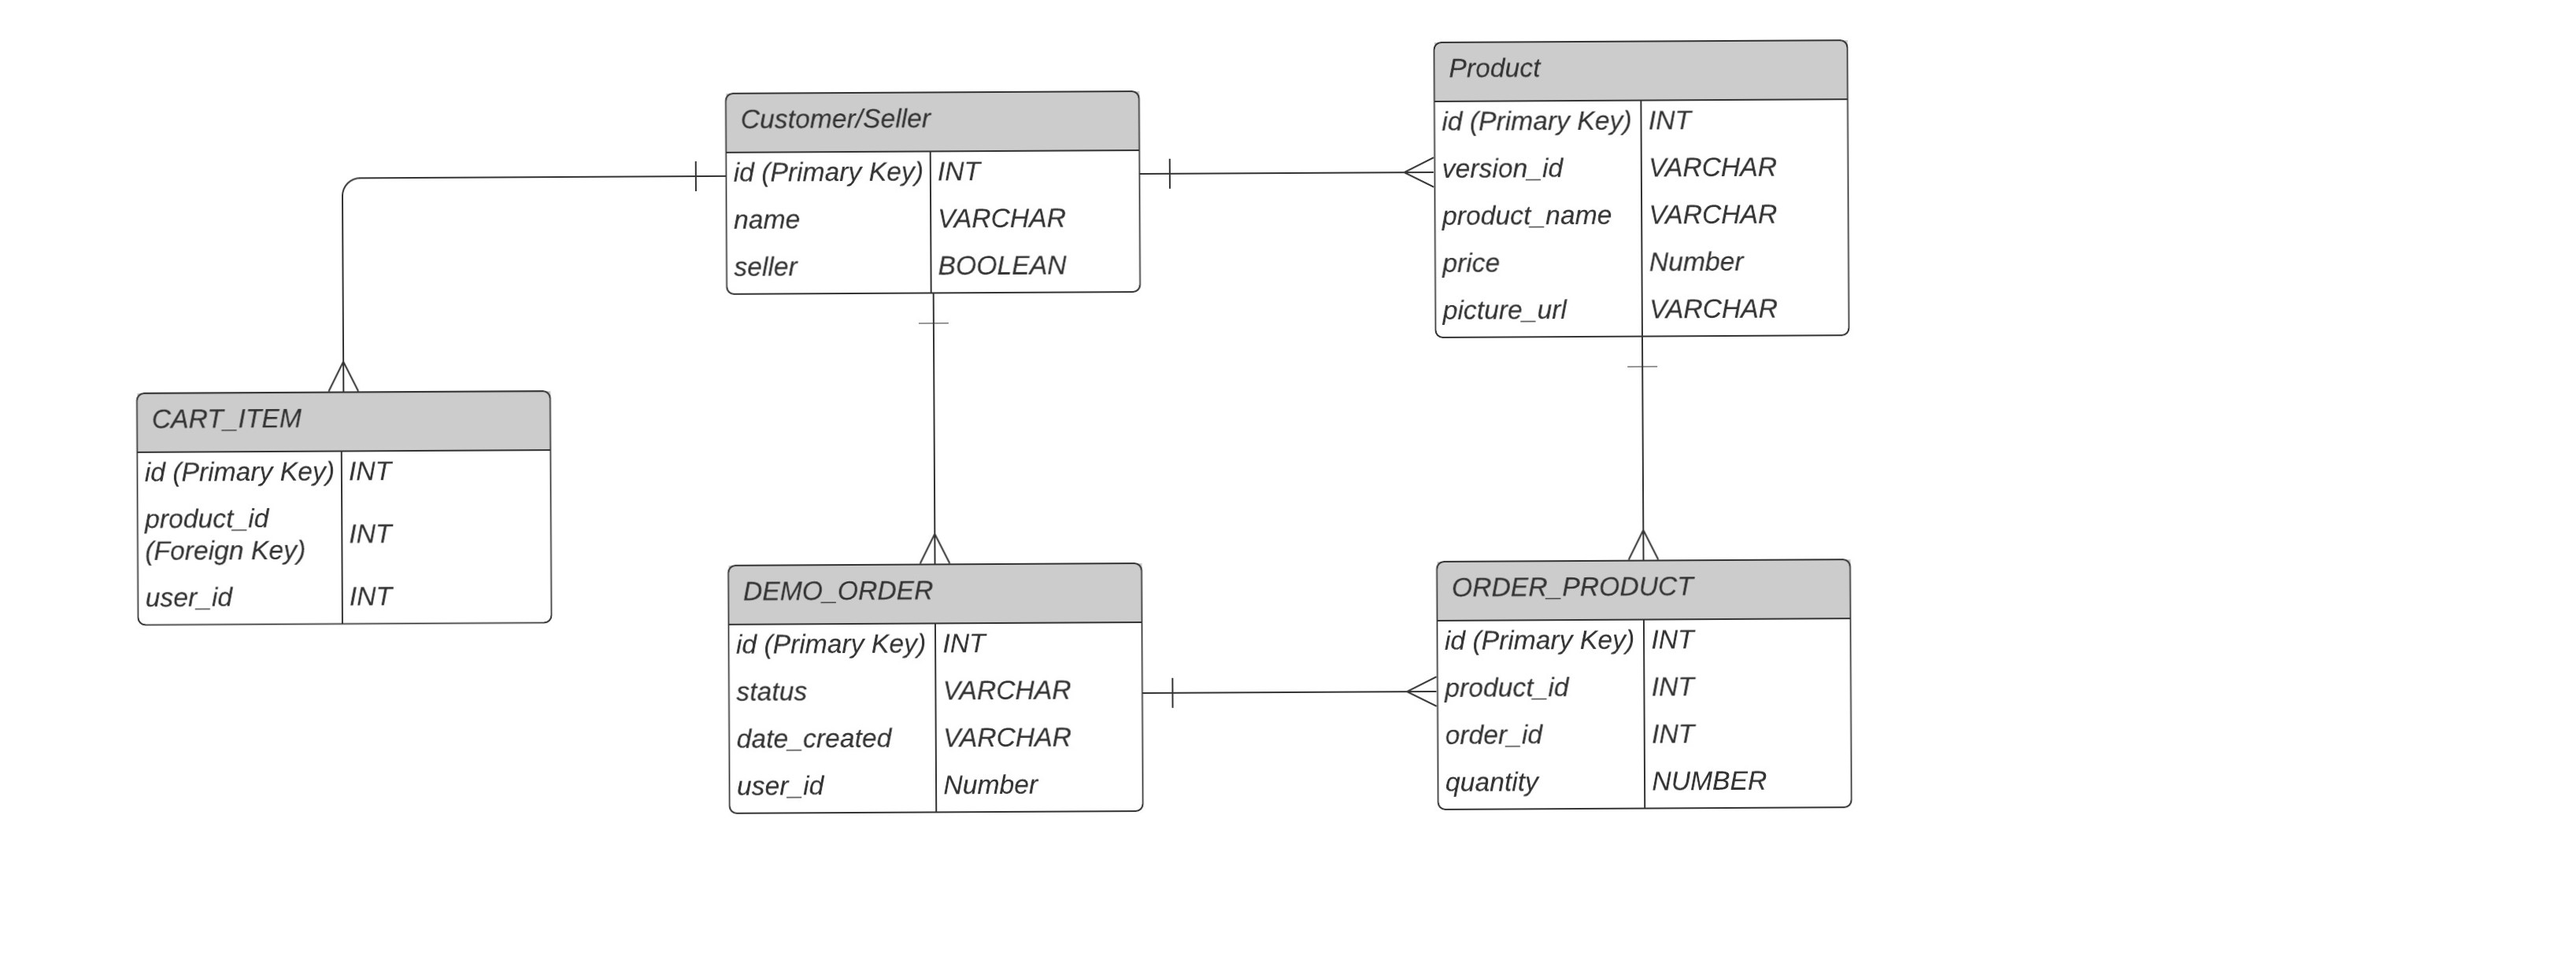
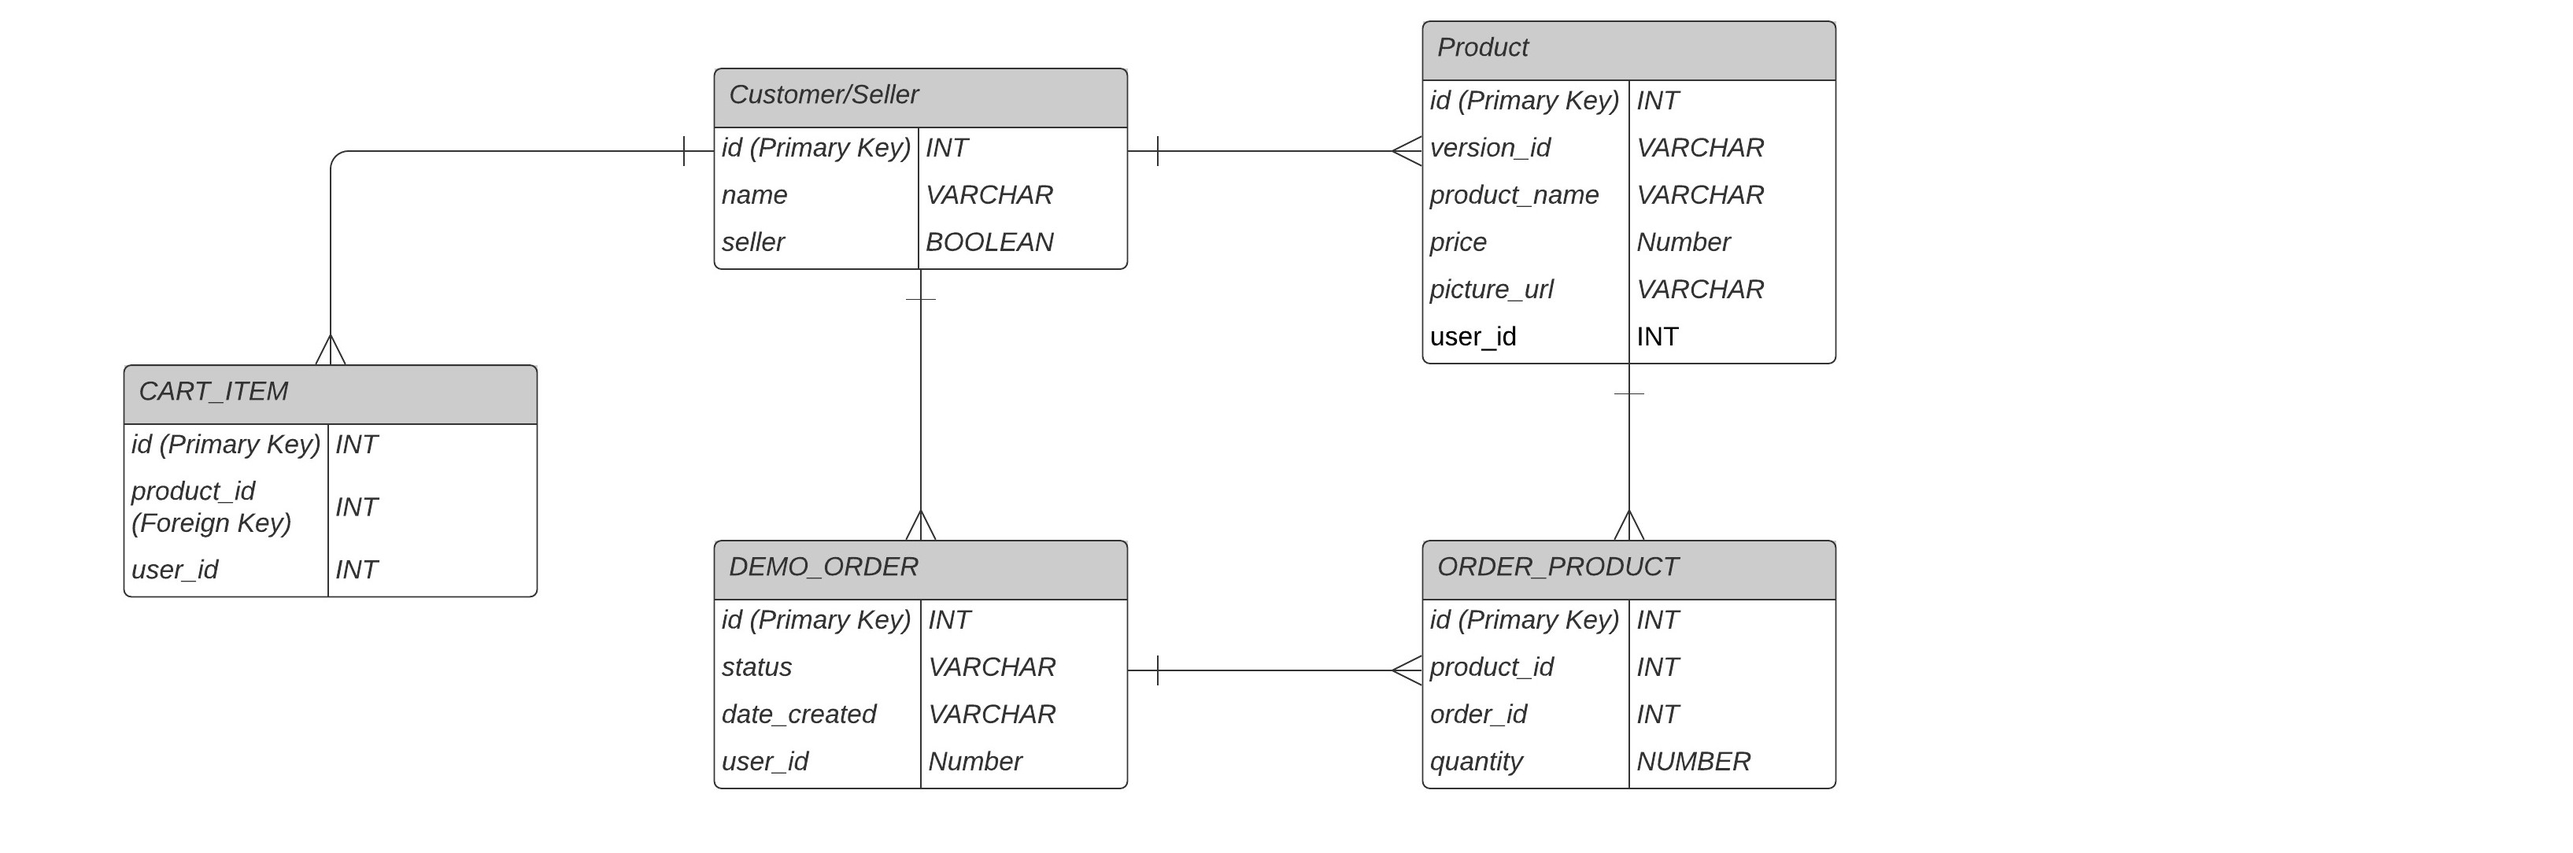
Code refinements

diff --git a/src/main/java/com/sample/demo/controller/ProductController.java b/src/main/java/com/sample/demo/controller/ProductController.java
@@ -14,6 +14,7 @@ import org.springframework.web.bind.annotation.PostMapping;
 import org.springframework.web.bind.annotation.RequestBody;
 import org.springframework.web.bind.annotation.RequestHeader;
 import org.springframework.web.bind.annotation.RequestMapping;
+import org.springframework.web.bind.annotation.RequestParam;
 import org.springframework.web.bind.annotation.RestController;
 
 import com.sample.demo.exception.PersistException;
@@ -47,10 +48,10 @@ public class ProductController {
 	}
 
 	@PostMapping
-	public ResponseEntity<Product> createProduct(@RequestHeader("token") String token, @RequestBody Product product) throws PersistException, UnauthorizedException {
+	public ResponseEntity<Product> createProduct(@RequestHeader("token") String token, @RequestBody Product product) throws PersistException, UnauthorizedException, RecordNotFoundException {
 		User user = userService.getUserByToken(token);
 		if (user.isSeller()) {
-			Product created = productService.addProduct(product);
+			Product created = productService.addProduct(product, user.getId());
 			return new ResponseEntity<Product>(created, new HttpHeaders(), HttpStatus.CREATED);
 		} else {
 			throw new UnauthorizedException("You do not have permission to add product");

diff --git a/src/main/java/com/sample/demo/model/Product.java b/src/main/java/com/sample/demo/model/Product.java
@@ -2,11 +2,14 @@ package com.sample.demo.model;
 
 import java.io.Serializable;
 
+import javax.persistence.CascadeType;
 import javax.persistence.Column;
 import javax.persistence.Entity;
 import javax.persistence.GeneratedValue;
 import javax.persistence.GenerationType;
 import javax.persistence.Id;
+import javax.persistence.JoinColumn;
+import javax.persistence.ManyToOne;
 import javax.persistence.NamedQuery;
 import javax.persistence.Table;
 import javax.validation.constraints.NotNull;
@@ -43,6 +46,10 @@ public class Product implements Serializable {
 
     @Column(name="picture_url")
     private String pictureUrl;
+    
+    @ManyToOne(cascade = CascadeType.ALL)
+    @JoinColumn(name = "user_id")
+	private User user;
 
 	/**
 	 * @return the id
@@ -112,6 +119,20 @@ public class Product implements Serializable {
 	 */
 	public void setPictureUrl(String pictureUrl) {
 		this.pictureUrl = pictureUrl;
+	}
+	
+	/**
+	 * @return the user
+	 */
+	public User getUser() {
+		return user;
+	}
+
+	/**
+	 * @param user the user to set
+	 */
+	public void setUser(User user) {
+		this.user = user;
 	}
 
 	@Override

diff --git a/src/main/java/com/sample/demo/service/impl/ProductService.java b/src/main/java/com/sample/demo/service/impl/ProductService.java
@@ -19,6 +19,9 @@ public class ProductService implements IProductService {
 	IGenericDao<Product> productDao;
 	
 	@Autowired
+	UserService userService;
+	
+	@Autowired
 	public void setDao(IGenericDao<Product> daoToSet) {
 		productDao = daoToSet;
 		productDao.setClazz(Product.class);
@@ -35,8 +38,9 @@ public class ProductService implements IProductService {
     }
 
     @Override
-    public Product addProduct(Product product) {
+    public Product addProduct(Product product, long userId) throws RecordNotFoundException {
     	product.setVersionId(UUID.randomUUID().toString());
+    	product.setUser(userService.getUserById(userId));
         return productDao.save(product);
     }
 

diff --git a/src/main/java/com/sample/demo/service/IProductService.java b/src/main/java/com/sample/demo/service/IProductService.java
@@ -26,6 +26,6 @@ public interface IProductService {
 	  * @param product
 	  * @return
 	  */
-	 public Product addProduct(Product product);
+	 public Product addProduct(Product product, long userId) throws RecordNotFoundException;
 
 }
